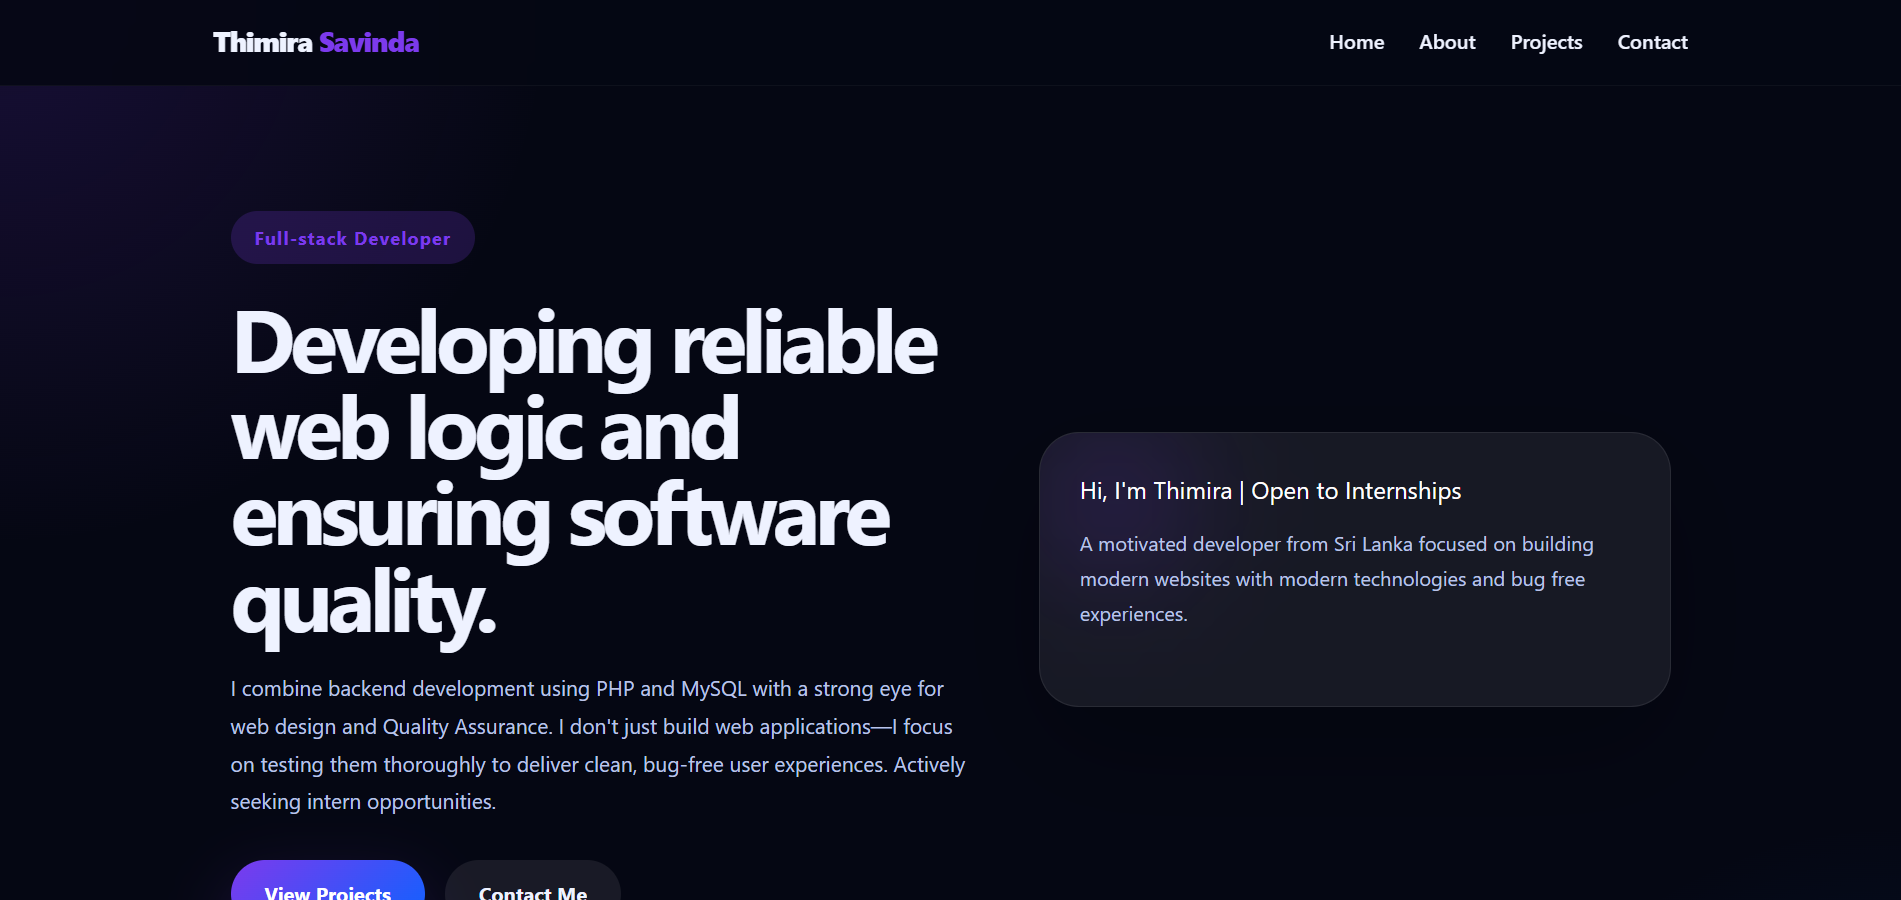
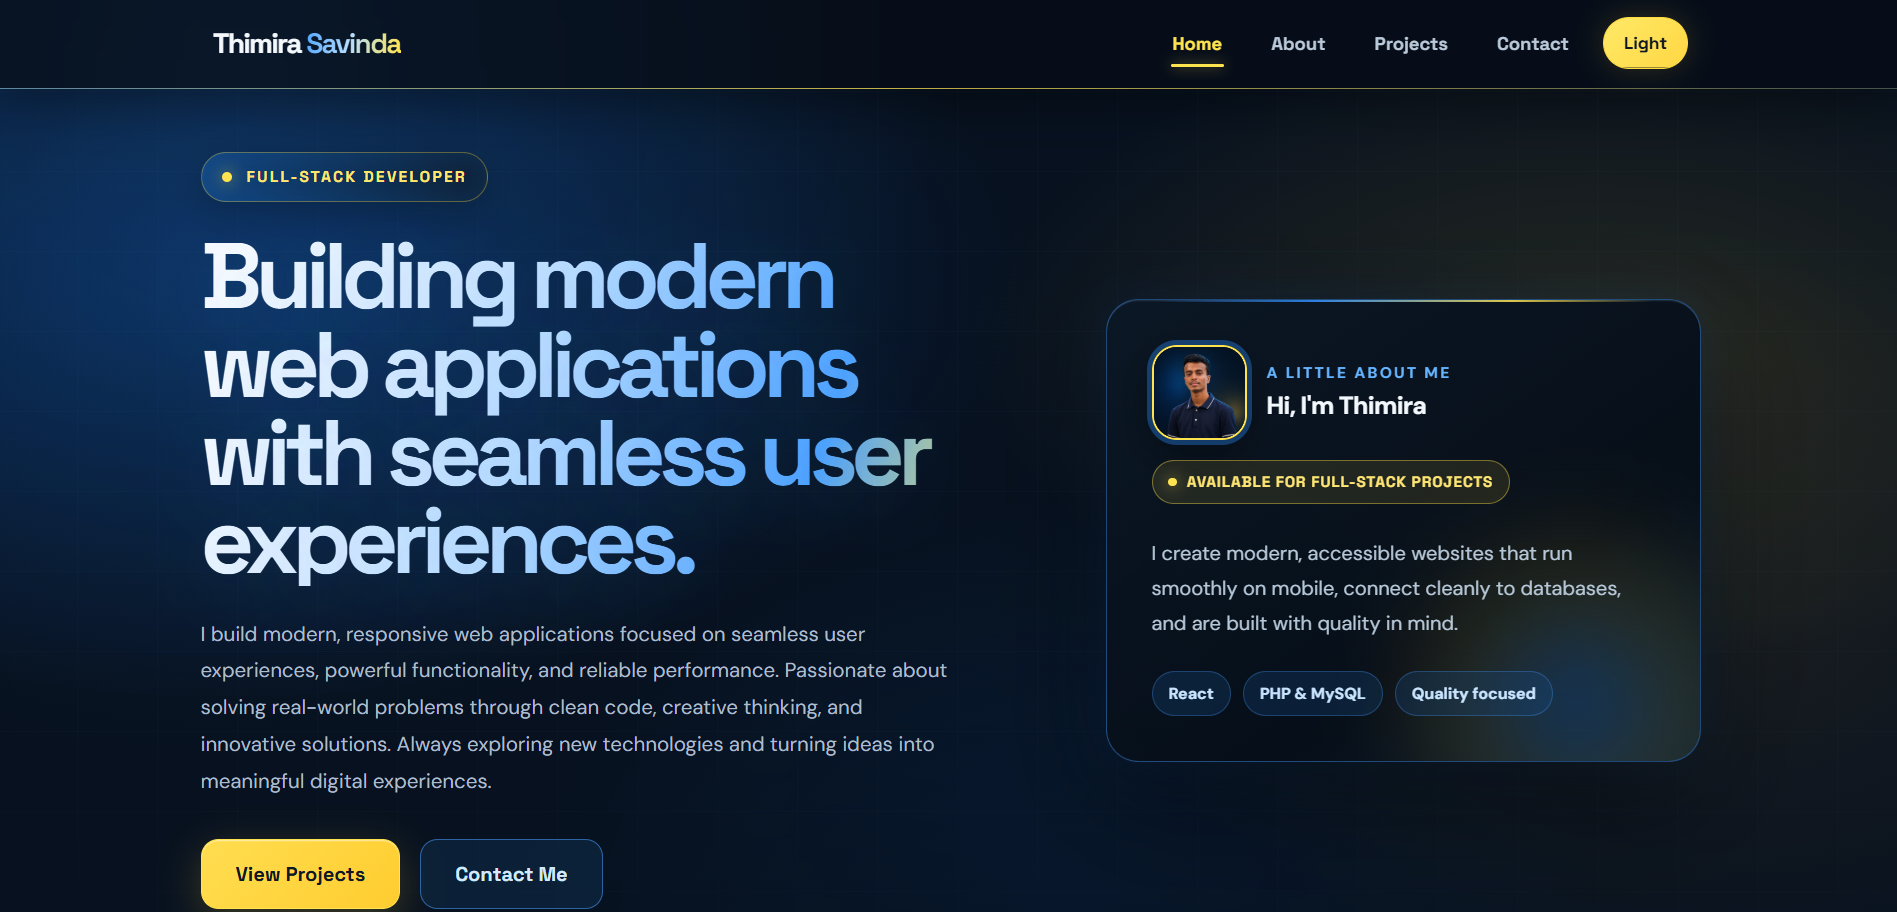
Polish portfolio themes and mobile navigation

diff --git a/src/App.css b/src/App.css
@@ -1101,7 +1101,7 @@ article {
   display: inline-flex;
   align-items: center;
   gap: 0.5rem;
-  margin-left: auto;
+  margin-left: 0;
   padding: 0.58rem 0.78rem;
   border: 1px solid rgba(100, 242, 189, 0.26);
   border-radius: 999px;
@@ -5143,6 +5143,140 @@ body.light-mode .contact-form-hint {
 
 body.light-mode .contact-form-status {
   color: #806000;
+}
+
+@media (min-width: 841px) {
+  body.light-mode .portfolio-header .nav-links {
+    background: transparent;
+  }
+}
+
+body.light-mode .portfolio-header .nav-links a,
+body.light-mode .portfolio-header .nav-links a:hover,
+body.light-mode .portfolio-header .nav-links a.active {
+  background: transparent;
+  box-shadow: none;
+}
+
+body.light-mode .portfolio-header .theme-toggle,
+body.light-mode .portfolio-header .menu-icon {
+  background: transparent;
+  box-shadow: none;
+}
+
+body.light-mode .portfolio-header .theme-toggle {
+  border-color: rgba(41, 77, 107, 0.35);
+  color: #294d6b;
+}
+
+@media (max-width: 840px) {
+  .portfolio-header .container {
+    position: static;
+  }
+
+  .portfolio-header {
+    background: rgba(4, 8, 14, 0.42);
+    backdrop-filter: blur(18px);
+    -webkit-backdrop-filter: blur(18px);
+  }
+
+  .portfolio-header.menu-open {
+    background: rgba(4, 8, 14, 0.92);
+    box-shadow: 0 12px 40px rgba(0, 0, 0, 0.24);
+  }
+
+  .portfolio-header .nav-links {
+    top: 100%;
+    right: 0;
+    left: 0;
+    width: auto;
+    transform: none;
+    background: rgba(4, 8, 14, 0.92);
+    box-shadow: 0 12px 40px rgba(0, 0, 0, 0.24);
+    backdrop-filter: blur(18px);
+    -webkit-backdrop-filter: blur(18px);
+  }
+
+  body.light-mode .portfolio-header {
+    background: rgba(245, 249, 252, 0.58);
+  }
+
+  body.light-mode .portfolio-header.menu-open {
+    background: rgba(245, 249, 252, 0.94);
+    box-shadow: 0 12px 40px rgba(33, 67, 97, 0.14);
+  }
+
+  body.light-mode .portfolio-header .nav-links {
+    border-color: rgba(57, 112, 160, 0.18);
+    background: rgba(245, 249, 252, 0.94);
+    box-shadow: 0 12px 40px rgba(33, 67, 97, 0.14);
+  }
+
+  body.light-mode .portfolio-header .nav-links a,
+  body.light-mode .portfolio-header .nav-links a:hover,
+  body.light-mode .portfolio-header .nav-links a.active {
+    color: #294d6b;
+  }
+
+  body.light-mode .portfolio-header .nav-links a.active {
+    color: #755a07;
+  }
+}
+
+body.light-mode .contact-details .contact-box,
+body.light-mode .contact-details .contact-box:nth-child(2),
+body.light-mode .contact-details .contact-box:nth-child(3) {
+  background: transparent;
+}
+
+body.light-mode .contact-socials .social-icon img {
+  border: 0;
+  background: transparent;
+  filter: none;
+}
+
+body.light-mode .contact-socials .social-icon-linkedin img {
+  filter: invert(29%) sepia(93%) saturate(1450%) hue-rotate(179deg) brightness(91%) contrast(96%);
+}
+
+body.light-mode .contact-socials .social-icon-whatsapp img {
+  filter: invert(55%) sepia(63%) saturate(633%) hue-rotate(88deg) brightness(91%) contrast(96%);
+}
+
+body.light-mode .contact-socials .social-icon-email img {
+  filter: invert(41%) sepia(87%) saturate(1760%) hue-rotate(192deg) brightness(90%) contrast(90%);
+}
+
+body:not(.light-mode) .contact-socials .social-icon img {
+  border: 0;
+  background: transparent;
+}
+
+body:not(.light-mode) .contact-socials .social-icon-github img {
+  filter: brightness(0) invert(1);
+}
+
+body:not(.light-mode) .contact-socials .social-icon-linkedin img {
+  filter: invert(29%) sepia(93%) saturate(1450%) hue-rotate(179deg) brightness(91%) contrast(96%);
+}
+
+body:not(.light-mode) .contact-socials .social-icon-whatsapp img {
+  filter: invert(55%) sepia(63%) saturate(633%) hue-rotate(88deg) brightness(91%) contrast(96%);
+}
+
+body:not(.light-mode) .contact-socials .social-icon-email img {
+  filter: invert(41%) sepia(87%) saturate(1760%) hue-rotate(192deg) brightness(90%) contrast(90%);
+}
+
+body.light-mode .availability-badge {
+  border-color: #b08922;
+  background: #fff1c2;
+  color: #664b00;
+}
+
+body.light-mode .availability-badge::before {
+  background: #8a6200;
+  box-shadow: none;
 }
 
 @media (max-width: 620px) {

diff --git a/src/Contact.js b/src/Contact.js
@@ -25,9 +25,10 @@ const Contact = () => {
           <p className="contact-eyebrow">Let’s connect</p>
           <h1 className="contact-title">Contact Me</h1>
           <p className="contact-text">
-            I’m available for internship opportunities and freelance projects.
-            If you need a reliable website, booking system, or QA-focused developer,
-            send a message and let’s talk about your next project.
+            I’m passionate about building modern web applications and full-stack
+            solutions. Whether you need a responsive website, custom web application,
+            or complete business management system, let’s connect and bring your ideas
+            to life.
           </p>
         </div>
 
@@ -43,7 +44,7 @@ const Contact = () => {
             </div>
             <div className="contact-box">
               <strong>Availability</strong>
-              <p>Open for internships, freelance web work, and collaboration.</p>
+              <p>Open to freelance projects, web development opportunities, and collaborations.</p>
             </div>
           </div>
 
@@ -54,7 +55,7 @@ const Contact = () => {
                 href="https://github.com/Thimira116"
                 target="_blank"
                 rel="noopener noreferrer"
-                className="social-icon"
+                className="social-icon social-icon-github"
               >
                 <img
                   src="https://cdn.jsdelivr.net/gh/simple-icons/simple-icons/icons/github.svg"
@@ -65,7 +66,7 @@ const Contact = () => {
                 href="https://www.linkedin.com/in/thimira-savinda-279482329?utm_source=share&utm_campaign=share_via&utm_content=profile&utm_medium=android_app"
                 target="_blank"
                 rel="noopener noreferrer"
-                className="social-icon"
+                className="social-icon social-icon-linkedin"
               >
                 <img
                   src="https://cdn.jsdelivr.net/gh/simple-icons/simple-icons/icons/linkedin.svg"
@@ -76,14 +77,14 @@ const Contact = () => {
                 href="https://wa.me/+94787842415"
                 target="_blank"
                 rel="noopener noreferrer"
-                className="social-icon"
+                className="social-icon social-icon-whatsapp"
               >
                 <img
                   src="https://cdn.jsdelivr.net/gh/simple-icons/simple-icons/icons/whatsapp.svg"
                   alt="WhatsApp"
                 />
               </a>
-              <a href="mailto:thimirapost116@gmail.com" className="social-icon">
+              <a href="mailto:thimirapost116@gmail.com" className="social-icon social-icon-email">
                 <img
                   src="https://cdn.jsdelivr.net/gh/simple-icons/simple-icons/icons/maildotru.svg"
                   alt="Email"

diff --git a/src/App.js b/src/App.js
@@ -5,7 +5,7 @@ import Header from "./Header";
 import About from "./About";
 import Contact from "./Contact";
 import Projects from "./Projects";
-import profilePic from "./assets/profile.jpg";
+import profilePic from "./assets/Profile.png";
 import "./App.css";
 
 function App() {
@@ -34,7 +34,7 @@ function App() {
                     transition={{ delay: 0.1, duration: 0.7 }}
                     className="hero-title"
                   >
-                    Building polished websites with dependable backend systems.
+                    Building modern web applications with seamless user experiences.
                   </motion.h1>
 
                   <motion.p
@@ -43,10 +43,11 @@ function App() {
                     transition={{ delay: 0.2, duration: 0.7 }}
                     className="hero-description"
                   >
-                    I build data-driven web apps with PHP, MySQL, and React,
-                    while applying QA practices to keep every release clean and reliable.
-                    Open to internships and freelance projects that need strong web logic,
-                    responsive design, and test-ready delivery.
+                    I build modern, responsive web applications focused on seamless user
+                     experiences, powerful functionality, and reliable performance.
+                     Passionate about solving real-world problems through clean code,
+                     creative thinking, and innovative solutions. Always exploring new
+                     technologies and turning ideas into meaningful digital experiences.
                   </motion.p>
 
                   <div className="hero-actions">
@@ -71,7 +72,7 @@ function App() {
                       <span className="hero-card-kicker">A little about me</span>
                       <p className="hero-card-title">Hi, I'm Thimira</p>
                     </div>
-                    <span className="availability-badge">Open to internships</span>
+                    <span className="availability-badge">Available for full-stack projects</span>
                   </div>
                   <p className="hero-card-text">
                     I create modern, accessible websites that run smoothly on mobile,
@@ -132,9 +133,10 @@ function App() {
                   </p>
                 </div>
                 <div className="feature-card">
-                  <h3>Real Internship Ready</h3>
+                  <h3>Full-Stack Development</h3>
                   <p>
-                    Professional design, polished interactions, and clear project delivery.
+                    Complete web applications with modern interfaces,
+                    powerful functionality, and reliable backend systems.
                   </p>
                 </div>
               </section>

diff --git a/src/About.js b/src/About.js
@@ -1,7 +1,7 @@
 import React from "react";
 import { motion } from "framer-motion";
 import "./App.css";
-import profilePic from "./assets/profile.jpg";
+import profilePic from "./assets/Profile.png";
 
 function About() {
   return (
@@ -29,10 +29,12 @@ function About() {
             <p className="about-label">About Me</p>
             <h1 className="about-title">Creative Web Developer</h1>
             <p className="about-intro">
-              I’m <strong>Thimira Savinda</strong>, and I build modern, responsive websites using
-              PHP, MySQL, and modern web technologies. I enjoy designing user-friendly experiences for
-              internships and real-world projects. As a passionate QA-focused developer, I work to
-              deliver clean, bug-free digital products.
+              I’m <strong>Thimira Savinda</strong>, a passionate Full Stack Developer
+              focused on building modern, responsive, and user-friendly web
+              applications. I enjoy creating seamless digital experiences, developing
+              practical solutions, and transforming creative ideas into functional
+              products. I value clean code, problem-solving, and delivering reliable
+              applications.
             </p>
 
             <div className="about-metrics">
@@ -42,7 +44,8 @@ function About() {
               </div>
               <div className="about-metric-card">
                 <h3>Backend Logic</h3>
-                <p>Database-backed systems built with PHP, MySQL, and Python automation.</p>
+                <p>Creating intelligent web applications with powerful features and
+                  seamless functionality.</p>
               </div>
               <div className="about-metric-card">
                 <h3>Quality Focus</h3>

diff --git a/src/Header.js b/src/Header.js
@@ -23,7 +23,7 @@ function Header() {
   };
 
   return (
-    <header className="portfolio-header">
+    <header className={isOpen ? "portfolio-header menu-open" : "portfolio-header"}>
       <div className="container">
         <Link to="/" className="logo-link" aria-label="Thimira Savinda home">
           <span className="logo">
